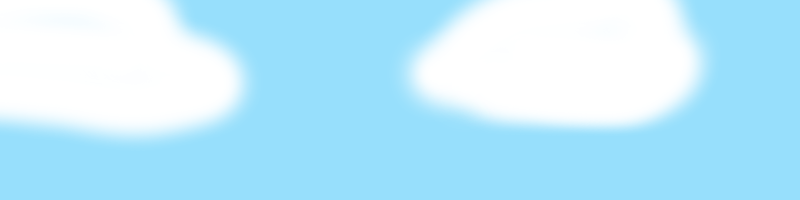
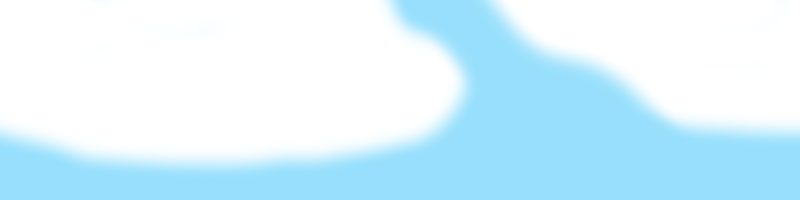
Bug fixes
Clouds/Ocean:   Made clouds be initially paused.
Fish:   Bug was introduced when mouthbox was shrunk. Fish could barely be caught
when behind a seahorse. This bug is now fixed.

svn path=/trunk/; revision=120

diff --git a/Source/Fish.cpp b/Source/Fish.cpp
@@ -46,6 +46,12 @@ const Dimension &Fish::MOUTH_SIZE()
     return TMP_MOUTH_SIZE;
 }
 
+const Dimension &Fish::MOUTH_SIZE_SEAHORSE()
+{
+    static const Dimension TMP_MOUTH_SIZE_SEAHORSE = { 5.0, 4.0 }; 
+    return TMP_MOUTH_SIZE_SEAHORSE;
+}
+
 const Uint32 &Fish::ABOUT_FACE_TICK_PROBABILITY()
 {
     static const Uint32 TMP_ABOUT_FACE_TICK_PROBABILITY = 2000; 
@@ -693,6 +699,10 @@ void Fish::FreeState::swim(Uint32 elapsedTime)
     {
         sharedFishOwner->behindSeahorse = false;
         sharedFishOwner->stayBehindSeahorse = false;
+        sharedFishOwner->mouthSize->width = sharedFishOwner->MOUTH_SIZE().
+            width;
+        sharedFishOwner->mouthSize->height = sharedFishOwner->MOUTH_SIZE().
+            height;
     }
         
     spurtVelocity(elapsedTime);
@@ -766,7 +776,11 @@ void Fish::FreeState::collidesWithHook(boost::shared_ptr<Line> &hook,
     if( !sharedFishOwner )
         return;
 
-    if( sharedFishOwner->nibbling || sharedFishOwner->justFinishedNibbling)
+    //Don't change this without thinking
+    //being stuck behind the seahorse, the fish needs to nibble more than once.
+    //or else it will be very hard to catch a fish under this condition
+    if( !sharedFishOwner->behindSeahorse && (sharedFishOwner->nibbling || 
+        sharedFishOwner->justFinishedNibbling))
         return;
 
     if( &yourBox == &(sharedFishOwner->mouthBox) )
@@ -871,7 +885,13 @@ void Fish::FreeState::collidesWithSeahorseLeft(boost::shared_ptr<Seahorse> &seah
     sharedFishOwner->facing = Direction::RIGHT();
 
     if( seahorseFacing == Direction::RIGHT() )
+    {
         sharedFishOwner->behindSeahorse = true;
+        sharedFishOwner->mouthSize->width = sharedFishOwner->MOUTH_SIZE_SEAHORSE().
+            width;
+        sharedFishOwner->mouthSize->height = sharedFishOwner->MOUTH_SIZE_SEAHORSE().
+            height;
+    }
 }
 
 void Fish::FreeState::collidesWithSeahorseRight(boost::shared_ptr<Seahorse> &seahorse,
@@ -896,7 +916,13 @@ void Fish::FreeState::collidesWithSeahorseRight(boost::shared_ptr<Seahorse> &sea
     sharedFishOwner->facing = Direction::LEFT();
 
     if( seahorseFacing == Direction::LEFT() )
+    {
         sharedFishOwner->behindSeahorse = true;
+        sharedFishOwner->mouthSize->width = sharedFishOwner->MOUTH_SIZE_SEAHORSE().
+            width;
+        sharedFishOwner->mouthSize->height = sharedFishOwner->MOUTH_SIZE_SEAHORSE().
+            height;
+    }
 }
 void Fish::FreeState::collidesWithSeahorse(boost::shared_ptr<Seahorse> &seahorse,
     const BoundingBox &yourBox) {}

diff --git a/Source/Clouds.cpp b/Source/Clouds.cpp
@@ -88,6 +88,9 @@ void Clouds::draw(boost::shared_ptr<Layout> &layout, Renderer &renderer)
 
 void Clouds::clockTick(Uint32 elapsedTime)
 {
+    if( !live )
+        return;
+
     double delX = elapsedTime * .025; //magic num is velocity
     firstImagePosition.x -= delX;
     secondImagePosition.x -= delX;
@@ -99,5 +102,10 @@ void Clouds::clockTick(Uint32 elapsedTime)
         secondImagePosition.x += imageSize.width * 3;
     if( thirdImagePosition.x < -imageSize.width + 1 )
         thirdImagePosition.x += imageSize.width * 3;
+}
+
+void Clouds::gameLive(bool l)
+{
+    live = l;
 }
 

diff --git a/Header/Clouds.hpp b/Header/Clouds.hpp
@@ -33,11 +33,13 @@ public:
     void loadImage(Renderer &renderer);
     void draw(boost::shared_ptr<Layout> &layout, Renderer &renderer);
     void clockTick(Uint32 elapsedTime);
+    void gameLive(bool l);
 private:
     Point firstImagePosition;
     Point secondImagePosition;
     Point thirdImagePosition;
     Dimension imageSize;
+    bool live;
 
     static const std::string &IMAGE_PATH1();
     static const std::string &IMAGE_PATH2();

diff --git a/Header/Fish.hpp b/Header/Fish.hpp
@@ -432,6 +432,7 @@ private:
     static const std::string &IMAGE_PATH();
     static const Layer &LAYER();
     static const Dimension &MOUTH_SIZE();
+    static const Dimension &MOUTH_SIZE_SEAHORSE();
     static const Uint32 &ABOUT_FACE_TICK_PROBABILITY();
     static const Uint32 &ABOUT_FACE_TICK_PROBABILITY_HOOKED_MODIFIER();
     static const Uint32 &MINIMUM_TIME_TO_RANDOM_ABOUT_FACE();

diff --git a/Source/Line.cpp b/Source/Line.cpp
@@ -415,7 +415,7 @@ void Line::setHook(bool on)
         boost::shared_ptr<Fish> sharedNibbleFish = nibbleFish.lock();
         boost::shared_ptr<Line> sharedThis(shared_from_this());
 
-        if( ! sharedNibbleFish || !sharedThis )
+        if( !sharedNibbleFish || !sharedThis )
             return;
 
         sharedNibbleFish->hookedBy(sharedThis, owner);

diff --git a/Source/Ocean.cpp b/Source/Ocean.cpp
@@ -604,6 +604,7 @@ void Ocean::GameState::gameLive(bool live)
     sharedOceanOwner->shark->gameLive(live);
     sharedOceanOwner->seaSnail->gameLive(live);
     sharedOceanOwner->seahorse->gameLive(live);
+    sharedOceanOwner->clouds->gameLive(live);
 }
 
 Ocean::CreditState::CreditState(boost::shared_ptr<Ocean> &oceanOwner)
